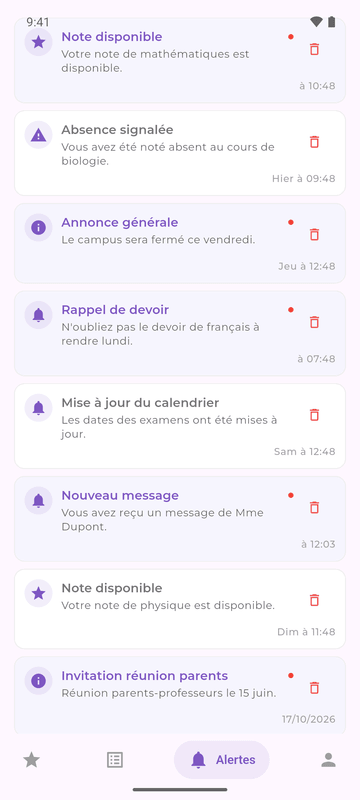
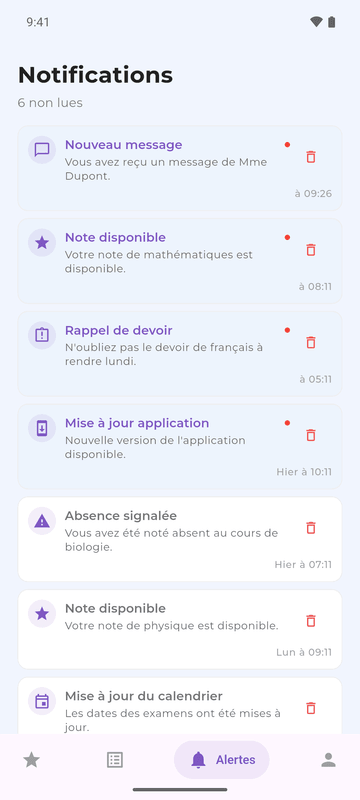
fix(étudiant): notifications et profil alignés sur le relevé
L'écran des notifications démarrait sous la barre d'état : il reçoit un titre, le nombre de non lues, une zone sûre, un tri du plus récent au plus ancien et une icône par type. Le profil affiche la photo de l'étudiant, comme l'écran des notes. Captures et visite animée du README mises à jour.

diff --git a/lib/screens/student/student_profile.dart b/lib/screens/student/student_profile.dart
@@ -11,19 +11,18 @@ class StudentProfileScreen extends StatelessWidget {
   void _onEditProfile(BuildContext context) {
     // TODO: Implémenter la logique de modification de profil
     ScaffoldMessenger.of(context).showSnackBar(
-      const SnackBar(content: Text("Modifier le profil - fonctionnalité à implémenter")),
+      const SnackBar(
+          content: Text("Modifier le profil - fonctionnalité à implémenter")),
     );
   }
 
-   void _onLogout(BuildContext context) {
+  void _onLogout(BuildContext context) {
     // TODO: Implémenter la logique de déconnexion
-     Navigator.pushReplacement(
-              // ignore: use_build_context_synchronously
-              context,
-              MaterialPageRoute(builder: (_) => const LoginScreen())
-            );
+    Navigator.pushReplacement(
+        // ignore: use_build_context_synchronously
+        context,
+        MaterialPageRoute(builder: (_) => const LoginScreen()));
   }
-
 
   @override
   Widget build(BuildContext context) {
@@ -42,104 +41,107 @@ class StudentProfileScreen extends StatelessWidget {
 
     return Scaffold(
       backgroundColor: AppColors.background,
-      body: SingleChildScrollView(
-        padding: const EdgeInsets.all(16),
-        child: Column(
-          crossAxisAlignment: CrossAxisAlignment.stretch,
-          children: [
-            Center(
-              child: CircleAvatar(
-                radius: 45,
-                backgroundColor: AppColors.secondary.withOpacity(0.1),
-                child: const Icon(Icons.person, size: 45, color: AppColors.secondary),
-              ),
-            ),
-            const SizedBox(height: 16),
-            Center(
-              child: Text(
-                user.fullName,
-                style: const TextStyle(fontSize: 22, fontWeight: FontWeight.bold),
-              ),
-            ),
-            const SizedBox(height: 4),
-            Center(
-              child: Text(
-                user.email,
-                style: const TextStyle(color: Colors.grey),
-              ),
-            ),
-            const SizedBox(height: 30),
-
-            ProfileInfoCard(
-              icon: Icons.school,
-              title: "Informations Académiques",
-              infos: [
-                InfoItem(label: "Numéro étudiant", value: user.studentId ?? 'N/A'),
-                InfoItem(label: "Classe", value: user.className ?? 'N/A'),
-                InfoItem(label: "Département", value: user.department ?? 'N/A'),
-              ],
-            ),
-
-            const SizedBox(height: 30),
-
-            ProfileInfoCard(
-              icon: Icons.person,
-              title: "Informations Personnelles",
-              infos: [
-                InfoItem(label: "Email", value: user.email),
-                InfoItem(
-                  label: "Compte créé le",
-                  value:
-                      '${user.createdAt.day.toString().padLeft(2, '0')}/'
-                      '${user.createdAt.month.toString().padLeft(2, '0')}/'
-                      '${user.createdAt.year}',
+      body: SafeArea(
+        bottom: false,
+        child: SingleChildScrollView(
+          padding: const EdgeInsets.all(16),
+          child: Column(
+            crossAxisAlignment: CrossAxisAlignment.stretch,
+            children: [
+              Center(
+                // Même photo que sur l'écran des notes.
+                child: CircleAvatar(
+                  radius: 45,
+                  backgroundColor: AppColors.secondary.withOpacity(0.1),
+                  backgroundImage: const AssetImage('assets/student_1.png'),
                 ),
-              ],
-            ),
-
-            const SizedBox(height: 30),
-
-          Row(
-  children: [
-    Expanded(
-      child: ElevatedButton.icon(
-        onPressed: () => _onEditProfile(context),
-        icon: const Icon(Icons.edit, color: Colors.white),
-        label: const Text(
-          "Modifier le profil",
-          style: TextStyle(color: Colors.white),
-        ),
-        style: ElevatedButton.styleFrom(
-          backgroundColor: AppColors.secondary,
-          padding: const EdgeInsets.symmetric(vertical: 14),
-          shape: RoundedRectangleBorder(
-            borderRadius: BorderRadius.circular(50),
+              ),
+              const SizedBox(height: 16),
+              Center(
+                child: Text(
+                  user.fullName,
+                  style: const TextStyle(
+                      fontSize: 22, fontWeight: FontWeight.bold),
+                ),
+              ),
+              const SizedBox(height: 4),
+              Center(
+                child: Text(
+                  user.email,
+                  style: const TextStyle(color: Colors.grey),
+                ),
+              ),
+              const SizedBox(height: 30),
+              ProfileInfoCard(
+                icon: Icons.school,
+                title: "Informations Académiques",
+                infos: [
+                  InfoItem(
+                      label: "Numéro étudiant", value: user.studentId ?? 'N/A'),
+                  InfoItem(label: "Classe", value: user.className ?? 'N/A'),
+                  InfoItem(
+                      label: "Département", value: user.department ?? 'N/A'),
+                ],
+              ),
+              const SizedBox(height: 30),
+              ProfileInfoCard(
+                icon: Icons.person,
+                title: "Informations Personnelles",
+                infos: [
+                  InfoItem(label: "Email", value: user.email),
+                  InfoItem(
+                    label: "Compte créé le",
+                    value: '${user.createdAt.day.toString().padLeft(2, '0')}/'
+                        '${user.createdAt.month.toString().padLeft(2, '0')}/'
+                        '${user.createdAt.year}',
+                  ),
+                ],
+              ),
+              const SizedBox(height: 30),
+              Row(
+                children: [
+                  Expanded(
+                    child: ElevatedButton.icon(
+                      onPressed: () => _onEditProfile(context),
+                      icon: const Icon(Icons.edit, color: Colors.white),
+                      label: const Text(
+                        "Modifier le profil",
+                        style: TextStyle(color: Colors.white),
+                      ),
+                      style: ElevatedButton.styleFrom(
+                        backgroundColor: AppColors.secondary,
+                        padding: const EdgeInsets.symmetric(vertical: 14),
+                        shape: RoundedRectangleBorder(
+                          borderRadius: BorderRadius.circular(50),
+                        ),
+                      ),
+                    ),
+                  ),
+                  const SizedBox(width: 16),
+                  Expanded(
+                    child: ElevatedButton.icon(
+                      onPressed: () => _onLogout(context),
+                      icon:
+                          const Icon(Icons.logout, color: AppColors.secondary),
+                      label: Text(
+                        "Déconnexion",
+                        style: TextStyle(color: AppColors.secondary),
+                      ),
+                      style: ElevatedButton.styleFrom(
+                        backgroundColor: AppColors.white,
+                        padding: const EdgeInsets.symmetric(vertical: 14),
+                        shape: RoundedRectangleBorder(
+                          borderRadius: BorderRadius.circular(50),
+                          side: BorderSide(
+                              color: AppColors.secondary, width: 0.1),
+                        ),
+                      ),
+                    ),
+                  ),
+                ],
+              ),
+            ],
           ),
-        ),
-      ),
-    ),
-    const SizedBox(width: 16),
-    Expanded(
-      child: ElevatedButton.icon(
-        onPressed: () => _onLogout(context),
-        icon: const Icon(Icons.logout, color: AppColors.secondary),
-        label: Text(
-          "Déconnexion",
-          style: TextStyle(color: AppColors.secondary),
-        ),
-        style: ElevatedButton.styleFrom(
-          backgroundColor: AppColors.white,
-          padding: const EdgeInsets.symmetric(vertical: 14),
-          shape: RoundedRectangleBorder(
-            borderRadius: BorderRadius.circular(50),
-            side: BorderSide(color: AppColors.secondary,width: 0.1),
-          ),
-        ),
-      ),
-    ),
-  ],
-),
-          ],
         ),
       ),
     );

diff --git a/lib/screens/student/student_notifications.dart b/lib/screens/student/student_notifications.dart
@@ -1,7 +1,7 @@
 import 'package:flutter/material.dart';
 
+import '../../constants/colors.dart';
 import '../../ui/notification_card.dart';
-
 
 class StudentNotificationsScreen extends StatelessWidget {
   const StudentNotificationsScreen({super.key});
@@ -77,33 +77,56 @@ class StudentNotificationsScreen extends StatelessWidget {
      
     ];
 
-    if (fakeNotifications.isEmpty) {
-      return const Center(child: Text('Aucune notification'));
-    }
+    // Les plus récentes en premier.
+    fakeNotifications.sort((a, b) => (b['date'] as DateTime).compareTo(a['date'] as DateTime));
+    final unread = fakeNotifications.where((n) => n['isRead'] == false).length;
 
-    return ListView.builder(
-      padding: const EdgeInsets.symmetric(vertical: 16),
-      itemCount: fakeNotifications.length,
-      itemBuilder: (context, index) {
-        final notif = fakeNotifications[index];
-
-        return NotificationCard(
-          title: notif['title'] ?? 'Notification',
-          description: notif['message'] ?? '',
-          dateTime: notif['date'],
-          icon: _getNotificationIcon(notif['type']),
-          isRead: notif['isRead'],
-          onTap: () {
-            // Simuler une action
-            ScaffoldMessenger.of(context).showSnackBar(
-              SnackBar(content: Text('Notification: ${notif['title']}')),
-            );
-          },
-          onDelete: () {
-            // Tu peux ajouter une logique de suppression locale ici si nécessaire
-          },
-        );
-      },
+    // Même en-tête que le relevé de notes : titre, sous-titre, zone sûre.
+    return Scaffold(
+      backgroundColor: AppColors.background,
+      body: SafeArea(
+        bottom: false,
+        child: ListView(
+          padding: const EdgeInsets.fromLTRB(4, 16, 4, 24),
+          children: [
+            const Padding(
+              padding: EdgeInsets.symmetric(horizontal: 16),
+              child: Text(
+                'Notifications',
+                style: TextStyle(fontSize: 26, fontWeight: FontWeight.w700, color: AppColors.textPrimary),
+              ),
+            ),
+            const SizedBox(height: 4),
+            Padding(
+              padding: const EdgeInsets.symmetric(horizontal: 16),
+              child: Text(
+                unread == 0 ? 'Tout est lu' : '$unread non lues',
+                style: const TextStyle(fontSize: 14, color: AppColors.textprimary),
+              ),
+            ),
+            const SizedBox(height: 12),
+            if (fakeNotifications.isEmpty)
+              const Padding(
+                padding: EdgeInsets.only(top: 80),
+                child: Center(child: Text('Aucune notification')),
+              ),
+            for (final notif in fakeNotifications)
+              NotificationCard(
+                title: notif['title'] ?? 'Notification',
+                description: notif['message'] ?? '',
+                dateTime: notif['date'],
+                icon: _getNotificationIcon(notif['type']),
+                isRead: notif['isRead'],
+                onTap: () {
+                  ScaffoldMessenger.of(context).showSnackBar(
+                    SnackBar(content: Text('Notification : ${notif['title']}')),
+                  );
+                },
+                onDelete: () {},
+              ),
+          ],
+        ),
+      ),
     );
   }
 
@@ -115,6 +138,14 @@ class StudentNotificationsScreen extends StatelessWidget {
         return Icons.warning;
       case 'general':
         return Icons.info;
+      case 'reminder':
+        return Icons.assignment_late_outlined;
+      case 'calendar':
+        return Icons.event_outlined;
+      case 'message':
+        return Icons.chat_bubble_outline;
+      case 'update':
+        return Icons.system_update_outlined;
       default:
         return Icons.notifications;
     }
